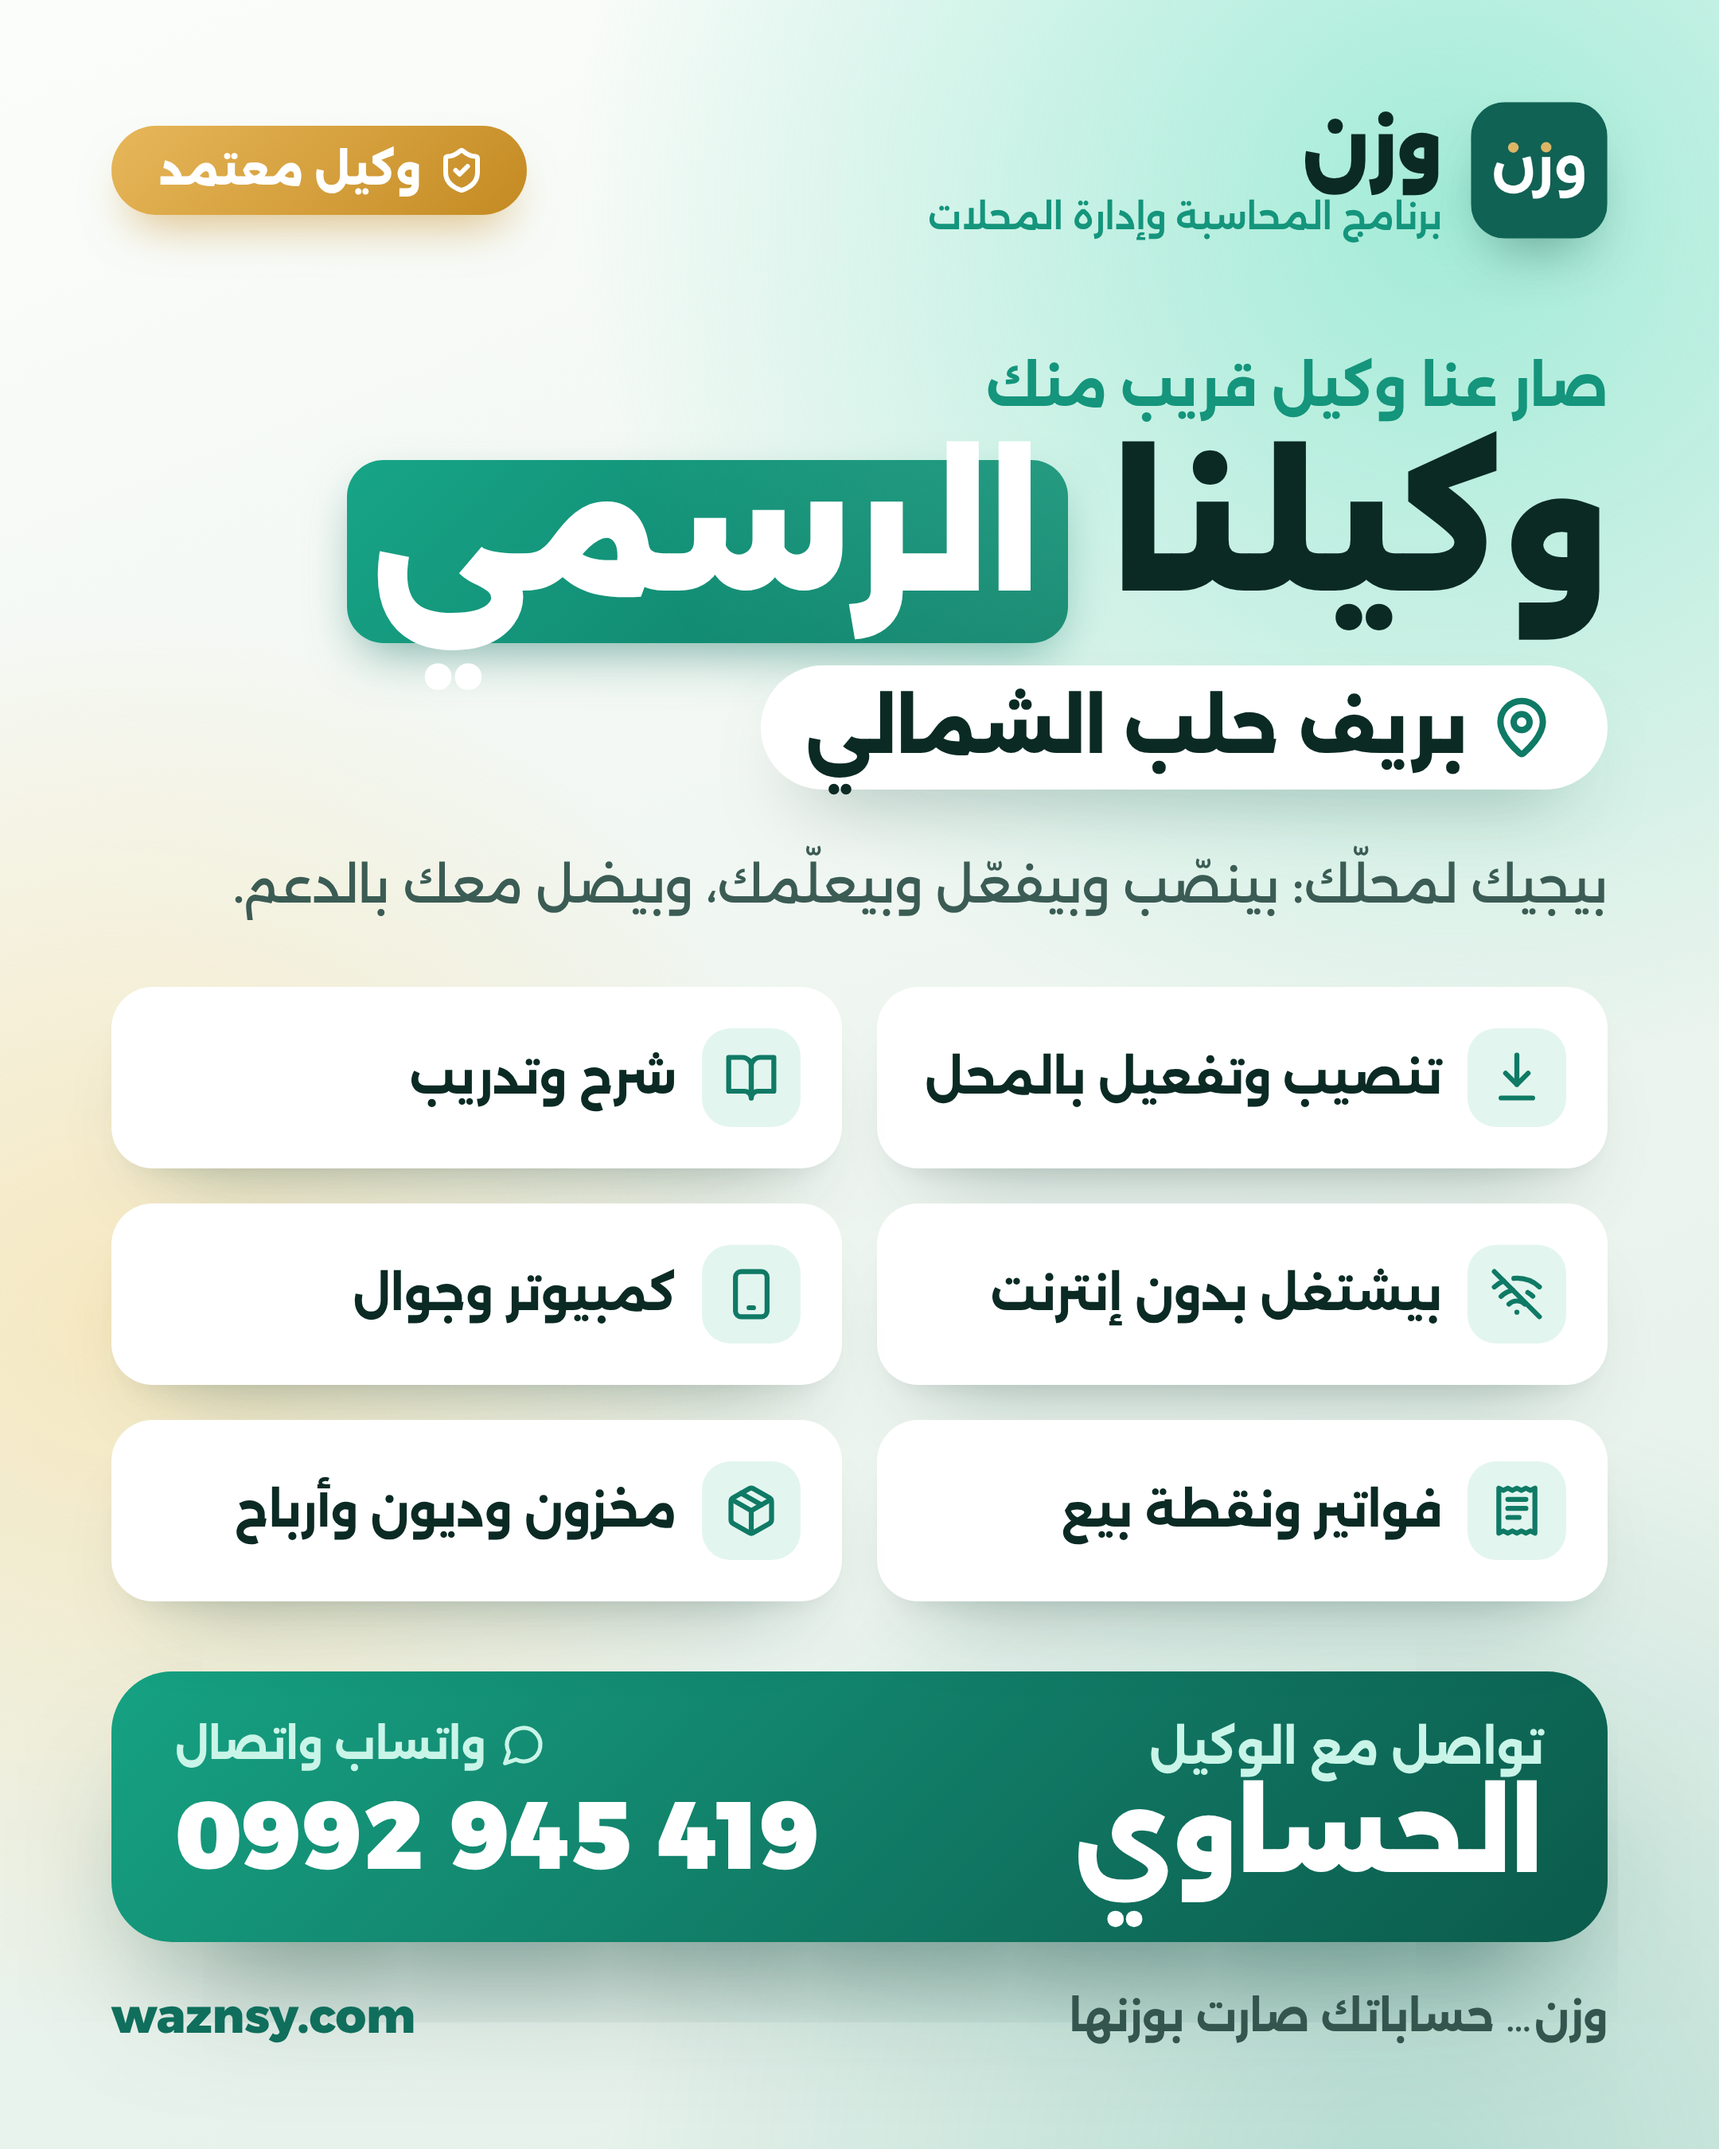
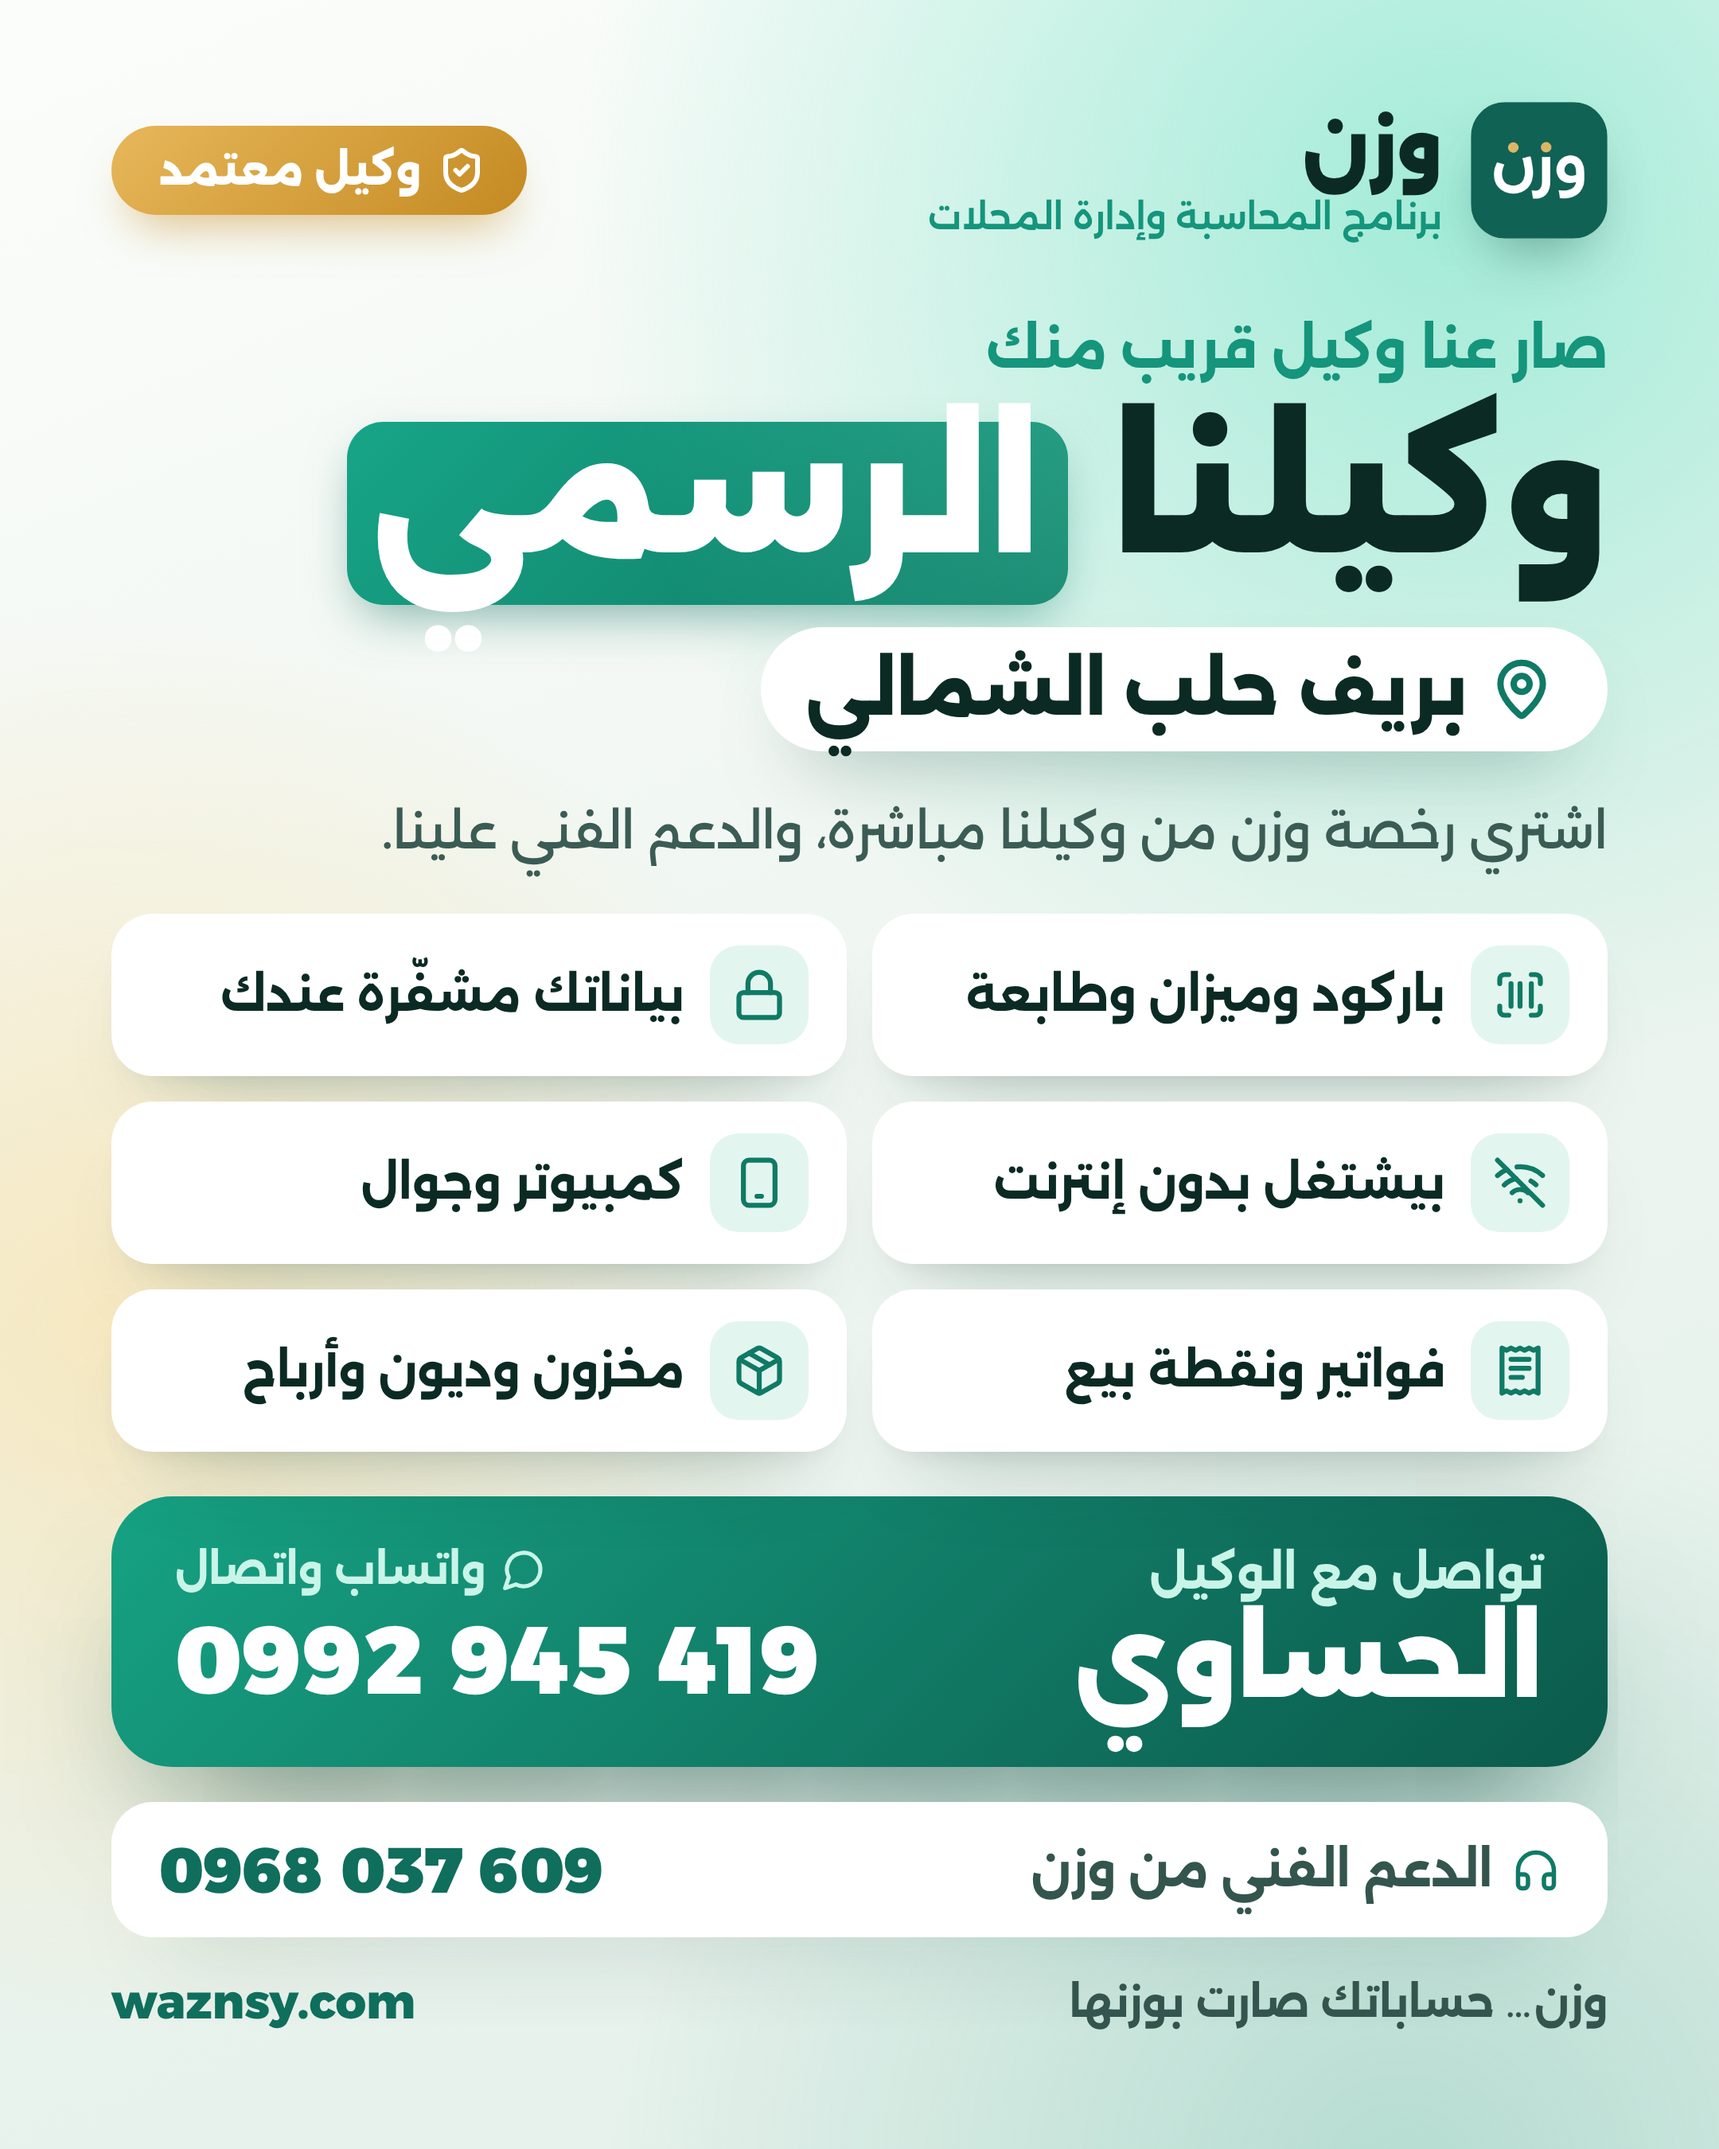
بوستر الحساوي: الوكيل بيبيع بس، والدعم الفني من وزن
Claude-Session: https://claude.ai/code/session_01F4G8BbW7w2HXtXobTozue7

diff --git a/marketing/poster-agent-hassawi/poster.html b/marketing/poster-agent-hassawi/poster.html
@@ -20,23 +20,26 @@ body { font-family: Alexandria, sans-serif; color: #0b2a24; background: linear-g
 .brand b { font-size: 46px; font-weight: 900; }
 .brand small { display: block; font-size: 22px; font-weight: 600; color: #14957c; margin-top: 2px; }
 .ribbon { display: flex; align-items: center; gap: 10px; font-size: 26px; font-weight: 800; color: #fff; background: linear-gradient(135deg, #e7b75a, #c48a22); padding: 12px 26px 12px 30px; border-radius: 999px; box-shadow: 0 16px 30px -12px rgba(196,138,34,.6); }
-.kicker { margin-top: 72px; display: inline-flex; align-items: center; gap: 12px; font-size: 34px; font-weight: 700; color: #14957c; }
+.kicker { margin-top: 48px; display: inline-flex; align-items: center; gap: 12px; font-size: 34px; font-weight: 700; color: #14957c; }
 h1 { font-size: 104px; font-weight: 900; line-height: 1.15; letter-spacing: -0.015em; margin-top: 10px; }
 h1 .hl { position: relative; display: inline-block; padding: 0 .16em; color: #fff; }
 h1 .hl::before { content: ''; position: absolute; inset: .14em 0 -.1em; border-radius: .22em; background: linear-gradient(135deg, #17a587, #0f7a65); box-shadow: 0 .12em .3em -.08em rgba(15,110,92,.55); z-index: -1; }
 .region { margin-top: 24px; display: inline-flex; align-items: center; gap: 14px; font-size: 44px; font-weight: 800; color: #0b2a24; background: #fff; border-radius: 999px; padding: 12px 34px 12px 28px; box-shadow: 0 24px 50px -28px rgba(6,50,40,.5); }
 .region svg { flex: none; }
-.lead { margin-top: 36px; font-size: 31px; font-weight: 500; color: #3b5c54; line-height: 1.55; max-width: 920px; }
-.grid { display: grid; grid-template-columns: 1fr 1fr; gap: 22px; margin-top: 40px; }
-.it { display: flex; align-items: center; gap: 16px; background: #fff; border-radius: 26px; padding: 26px 26px; box-shadow: 0 30px 60px -36px rgba(6,50,40,.42), 0 10px 22px -16px rgba(6,50,40,.22); font-size: 29px; font-weight: 700; }
+.lead { margin-top: 26px; font-size: 31px; font-weight: 500; color: #3b5c54; line-height: 1.55; max-width: 920px; }
+.grid { display: grid; grid-template-columns: 1fr 1fr; gap: 16px; margin-top: 28px; }
+.it { display: flex; align-items: center; gap: 16px; background: #fff; border-radius: 26px; padding: 20px 24px; box-shadow: 0 30px 60px -36px rgba(6,50,40,.42), 0 10px 22px -16px rgba(6,50,40,.22); font-size: 29px; font-weight: 700; }
 .it .ic { flex: none; width: 62px; height: 62px; border-radius: 18px; background: #e3f5ef; display: grid; place-items: center; }
-.call { margin-top: 44px; display: flex; align-items: center; justify-content: space-between; gap: 24px; background: linear-gradient(135deg, #16a283 0%, #0f6e5c 70%, #0b5b4b 100%); border-radius: 38px; padding: 30px 40px; color: #fff; box-shadow: 0 46px 90px -40px rgba(6,60,48,.75); }
+.call { margin-top: 28px; display: flex; align-items: center; justify-content: space-between; gap: 24px; background: linear-gradient(135deg, #16a283 0%, #0f6e5c 70%, #0b5b4b 100%); border-radius: 38px; padding: 30px 40px; color: #fff; box-shadow: 0 46px 90px -40px rgba(6,60,48,.75); }
 .call .lbl { font-size: 29px; font-weight: 700; color: #c9f5e8; }
 .call .name { font-size: 64px; font-weight: 900; line-height: 1.15; margin-top: 2px; }
 .call .num { text-align: left; }
 .call .num span { display: flex; align-items: center; justify-content: flex-end; gap: 10px; font-size: 26px; font-weight: 700; color: #c9f5e8; }
 .call .num b { display: block; font-size: 60px; font-weight: 900; direction: ltr; letter-spacing: .01em; margin-top: 4px; white-space: nowrap; }
-.foot { margin-top: 28px; display: flex; justify-content: space-between; align-items: center; font-size: 26px; font-weight: 700; color: #33554d; }
+.support { margin-top: 22px; display: flex; align-items: center; justify-content: space-between; background: #fff; border-radius: 26px; padding: 18px 30px; box-shadow: 0 30px 60px -36px rgba(6,50,40,.42); font-size: 30px; font-weight: 700; color: #33554d; }
+.support span { display: flex; align-items: center; gap: 12px; }
+.support b { direction: ltr; font-size: 40px; font-weight: 900; color: #0f6e5c; }
+.foot { margin-top: 22px; display: flex; justify-content: space-between; align-items: center; font-size: 26px; font-weight: 700; color: #33554d; }
 .foot .site { direction: ltr; font-weight: 800; color: #0f6e5c; font-size: 30px; }
 </style>
 </head>
@@ -50,10 +53,10 @@ h1 .hl::before { content: ''; position: absolute; inset: .14em 0 -.1em; border-r
   <div class="kicker">صار عنا وكيل قريب منك</div>
   <h1>وكيلنا <span class="hl">الرسمي</span></h1>
   <div class="region"><svg width="40" height="40" viewBox="0 0 24 24" fill="none" stroke="#0f7a65" stroke-width="2.4" stroke-linecap="round" stroke-linejoin="round"><path d="M20 10c0 4.99-5.54 10.19-7.4 11.8a1 1 0 0 1-1.2 0C9.54 20.19 4 14.99 4 10a8 8 0 0 1 16 0"/><circle cx="12" cy="10" r="3"/></svg>بريف حلب الشمالي</div>
-  <p class="lead">بيجيك لمحلّك: بينصّب وبيفعّل وبيعلّمك، وبيضل معك بالدعم.</p>
+  <p class="lead">اشتري رخصة وزن من وكيلنا مباشرة، والدعم الفني علينا.</p>
   <div class="grid">
-    <div class="it"><div class="ic"><svg width="34" height="34" viewBox="0 0 24 24" fill="none" stroke="#0f7a65" stroke-width="2.2" stroke-linecap="round" stroke-linejoin="round"><path d="M12 2v13"/><path d="m7 10 5 5 5-5"/><path d="M5 21h14"/></svg></div>تنصيب وتفعيل بالمحل</div>
-    <div class="it"><div class="ic"><svg width="34" height="34" viewBox="0 0 24 24" fill="none" stroke="#0f7a65" stroke-width="2.2" stroke-linecap="round" stroke-linejoin="round"><path d="M2 3h6a4 4 0 0 1 4 4v14a3 3 0 0 0-3-3H2z"/><path d="M22 3h-6a4 4 0 0 0-4 4v14a3 3 0 0 1 3-3h7z"/></svg></div>شرح وتدريب</div>
+    <div class="it"><div class="ic"><svg width="34" height="34" viewBox="0 0 24 24" fill="none" stroke="#0f7a65" stroke-width="2.2" stroke-linecap="round" stroke-linejoin="round"><path d="M3 7V5a2 2 0 0 1 2-2h2"/><path d="M17 3h2a2 2 0 0 1 2 2v2"/><path d="M21 17v2a2 2 0 0 1-2 2h-2"/><path d="M7 21H5a2 2 0 0 1-2-2v-2"/><path d="M8 7v10"/><path d="M12 7v10"/><path d="M17 7v10"/></svg></div>باركود وميزان وطابعة</div>
+    <div class="it"><div class="ic"><svg width="34" height="34" viewBox="0 0 24 24" fill="none" stroke="#0f7a65" stroke-width="2.2" stroke-linecap="round" stroke-linejoin="round"><rect width="18" height="11" x="3" y="11" rx="2"/><path d="M7 11V7a5 5 0 0 1 10 0v4"/></svg></div>بياناتك مشفّرة عندك</div>
     <div class="it"><div class="ic"><svg width="34" height="34" viewBox="0 0 24 24" fill="none" stroke="#0f7a65" stroke-width="2.2" stroke-linecap="round" stroke-linejoin="round"><path d="M12 20h.01"/><path d="M8.5 16.43a5 5 0 0 1 7 0"/><path d="M2 8.82a15 15 0 0 1 4.17-2.65"/><path d="M10.66 5c4.01-.36 8.14.9 11.34 3.76"/><path d="M16.85 11.25a10 10 0 0 1 2.22 1.68"/><path d="M5 13a10 10 0 0 1 5.24-2.76"/><path d="m2 2 20 20"/></svg></div>بيشتغل بدون إنترنت</div>
     <div class="it"><div class="ic"><svg width="34" height="34" viewBox="0 0 24 24" fill="none" stroke="#0f7a65" stroke-width="2.2" stroke-linecap="round" stroke-linejoin="round"><rect x="5" y="2" width="14" height="20" rx="2.5"/><path d="M11 18h2"/></svg></div>كمبيوتر وجوال</div>
     <div class="it"><div class="ic"><svg width="34" height="34" viewBox="0 0 24 24" fill="none" stroke="#0f7a65" stroke-width="2.2" stroke-linecap="round" stroke-linejoin="round"><path d="M4 2v20l2-1 2 1 2-1 2 1 2-1 2 1 2-1 2 1V2l-2 1-2-1-2 1-2-1-2 1-2-1-2 1Z"/><path d="M8 7h8"/><path d="M8 11h8"/><path d="M8 15h5"/></svg></div>فواتير ونقطة بيع</div>
@@ -63,6 +66,7 @@ h1 .hl::before { content: ''; position: absolute; inset: .14em 0 -.1em; border-r
     <div><div class="lbl">تواصل مع الوكيل</div><div class="name">الحساوي</div></div>
     <div class="num"><span><svg width="28" height="28" viewBox="0 0 24 24" fill="none" stroke="#c9f5e8" stroke-width="2.2" stroke-linecap="round" stroke-linejoin="round"><path d="M7.9 20A9 9 0 1 0 4 16.1L2 22Z"/></svg>واتساب واتصال</span><b>0992 945 419</b></div>
   </div>
+  <div class="support"><span><svg width="30" height="30" viewBox="0 0 24 24" fill="none" stroke="#0f7a65" stroke-width="2.2" stroke-linecap="round" stroke-linejoin="round"><path d="M3 14h3a2 2 0 0 1 2 2v3a2 2 0 0 1-2 2H5a2 2 0 0 1-2-2v-7a9 9 0 0 1 18 0v7a2 2 0 0 1-2 2h-1a2 2 0 0 1-2-2v-3a2 2 0 0 1 2-2h3"/></svg>الدعم الفني من وزن</span><b>0968 037 609</b></div>
   <div class="foot"><span>وزن… حساباتك صارت بوزنها</span><span class="site">waznsy.com</span></div>
 </div>
 </body>
